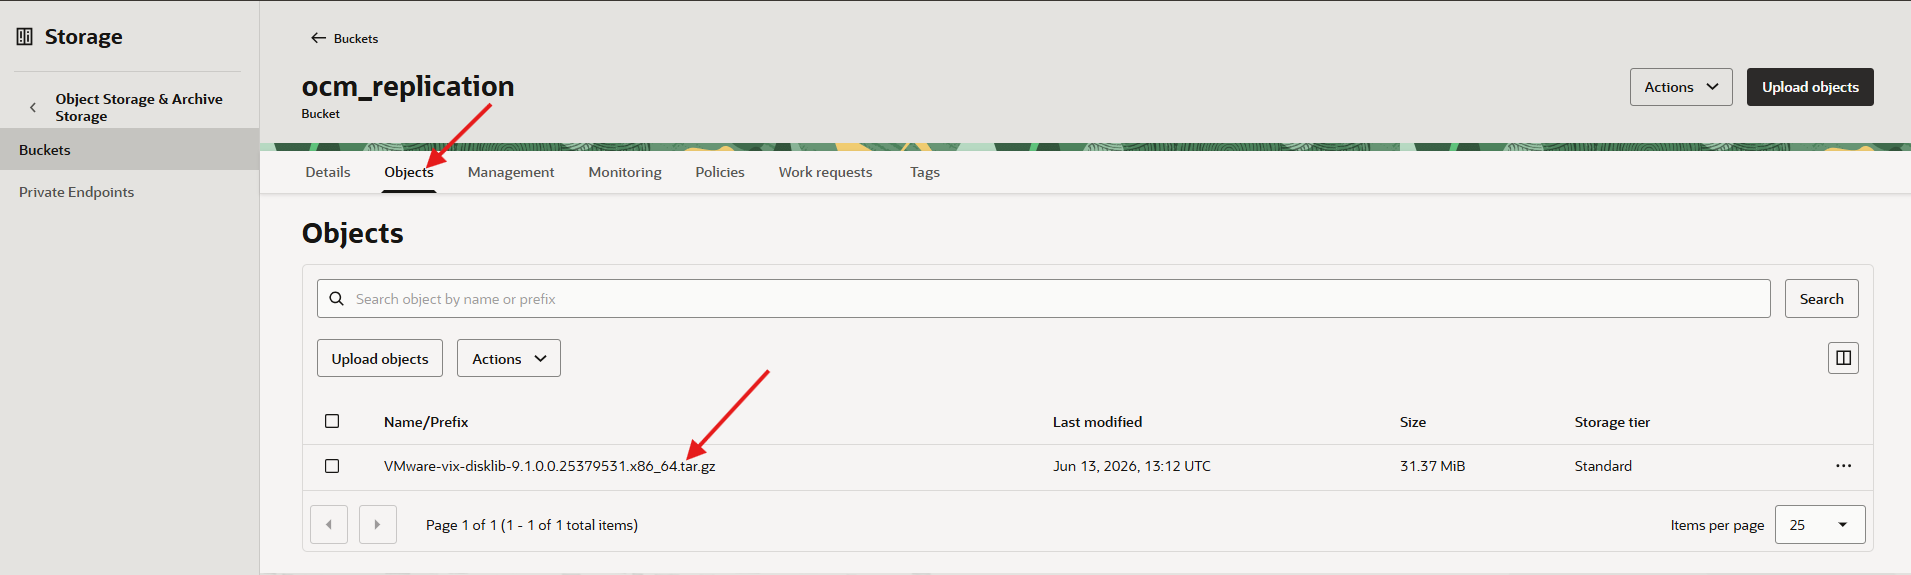
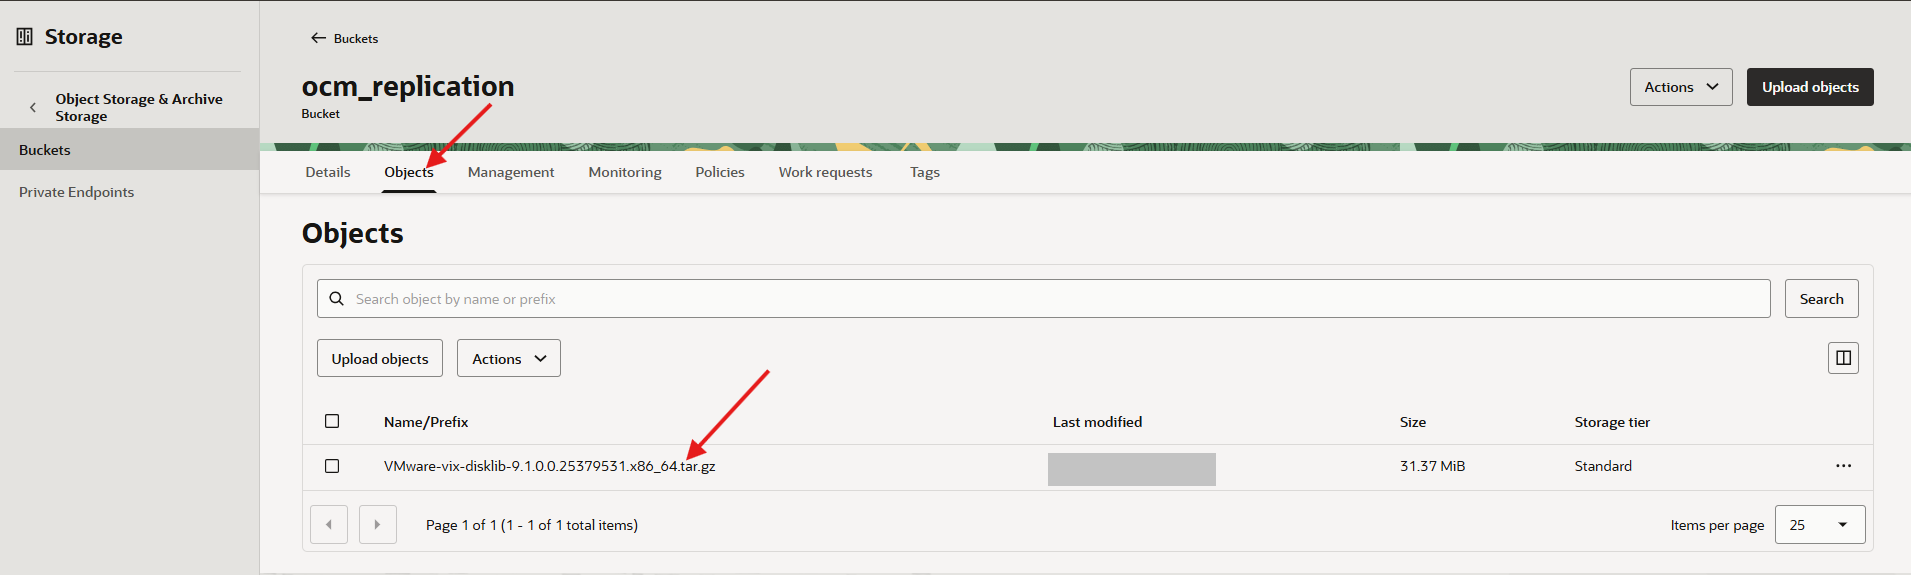
updated

Changed region(s): [[0.5249, 0.7687, 0.6484, 0.8574]]

diff --git a/vmware-to-olvm-ocm/upload-register-vddk/upload-register-vddk.md b/vmware-to-olvm-ocm/upload-register-vddk/upload-register-vddk.md
@@ -91,8 +91,8 @@ Do not use the latest VDDK version unless it matches one of the supported versio
 11. Record the dependency details.
 
     ```text
-    Agent dependency: vddk-package
-    Dependency status: Active
+    <copy>Agent dependency: vddk-package
+    Dependency status: Active</copy>
     ```
 
 ## Learn More